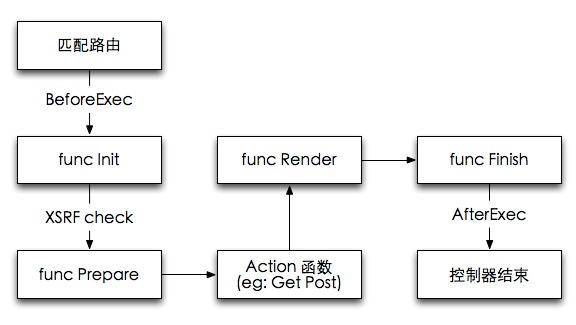
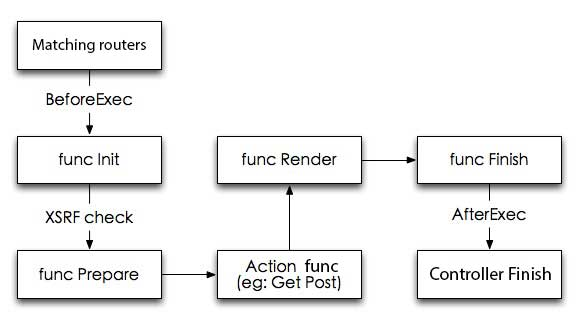
translated imgs.

diff --git a/en/1/why_beego.html b/en/1/why_beego.html
@@ -2,7 +2,7 @@
 <!DOCTYPE html>
 <html>
   <head>
-    <title>The Zen of Beego</title>
+    <title>Beego Framework Tutorials - 1 - Introduction to Beego</title>
     <meta charset='utf-8'>
     <script src='static/slides.js'></script>
   </head>
@@ -12,15 +12,15 @@
     <section class='slides layout-widescreen'>
       
       <article>
-        <h1>The Zen of Beego</h1>
-        <h3>A Go framework for developing HTTP application rapidly</h3>
-        <h3>10 May 2014</h3>
+        <h1>Beego Framework Tutorials - 1 - Introduction to Beego</h1>
+        <h3>A Go HTTP framework for developing HTTP application rapidly</h3>
+        
         
           <div class="presenter">
             
   
   <p>
-    Lei Cao
+    By Lei Cao
   </p>
   
 
@@ -36,27 +36,24 @@
         
   <ul>
   
-    <li>Why do we design <b>beego</b>?</li>
+    <li>Why do we create <b>beego</b>?</li>
   
-    <li>What can <b>beego</b> do?</li>
+    <li>What can we do with <b>beego</b>?</li>
   
-    <li>Where will <b>beego</b> go?</li>
+    <li>Where will <b>beego</b> lead to in the future?</li>
   
     <li>How to install and config <b>beego</b>?</li>
   
-    <li>When should I start learning <b>beego</b>? Now!</li>
+    <li>When can I get started with <b>beego</b>?</li>
   
   </ul>
 
-      
-      </article>
+  <ul>
   
+    <li>Why do we create beego?</li>
   
-  
-      <article>
-      
-        <h3>Why do we design beego?</h3>
-        
+  </ul>
+
   
   <p>
     1. Astaxie want to create a framework while he was writing his book.
@@ -69,15 +66,12 @@
   </p>
   
 
-      
-      </article>
+  <ul>
   
+    <li>What can we do with beego?</li>
   
-  
-      <article>
-      
-        <h3>What can beego do?</h3>
-        
+  </ul>
+
   
   <p>
     <b>beego</b> is a http application framework
@@ -109,27 +103,28 @@
   
     <li>High performance. The fastest Go framework out there now.</li>
   
-    <li>Rapid development, lots of components, highly decoupled</li>
+  </ul>
+<p class="link"><a href="http://www.techempower.com/benchmarks/#section=data-r9&amp;hw=i7&amp;test=json" target="_blank">Web Framework Benchmarks</a></p>
+  <ul>
   
-    <li>Tons of products. 360，weico，jd，opera ...</li>
+    <li>High-productivity, many components, highly decoupled</li>
+  
+    <li>Tons of live products. 360，weico，jd，opera ...</li>
   
     <li>RESTful model with customizable actions</li>
   
-    <li>high stability, frequent update, continuous maintainace</li>
+    <li>Stable; active update; continuous maintainace</li>
   
-    <li>Good documents, online FAQ</li>
+    <li>Pretty good documents</li>
   
   </ul>
 
-      
-      </article>
+  <ul>
   
+    <li>Where will beego evolve in the future?</li>
   
-  
-      <article>
-      
-        <h3>Where will beego go?</h3>
-        
+  </ul>
+
   <ul>
   
     <li>Highly modular. Improving existent modules and developing more new modules</li>
@@ -142,15 +137,12 @@
   
   </ul>
 
-      
-      </article>
+  <ul>
   
+    <li>How to install and config beego?</li>
   
-  
-      <article>
-      
-        <h3>How to install and config beego?</h3>
-        
+  </ul>
+
   
   <p>
     <b>beego</b> is the framework, <b>bee</b> is the developing tool.
@@ -169,7 +161,7 @@ go get github.com/beego/bee</pre></div>
   
       <article>
       
-        <h3>Frequently happened problems:</h3>
+        <h3>Frequently happened issues:</h3>
         
   <ul>
   
@@ -177,7 +169,13 @@ go get github.com/beego/bee</pre></div>
   
     <li>Setting up <b>bee</b> tool</li>
   
-    <li><b>git</b> is not installed</li>
+  </ul>
+<p class="link"><a href="http://beego.me/docs/install/bee.md" target="_blank">bee tool document</a></p>
+  <ul>
+  
+    <li>Testing if installed sucessfully</li>
+  
+    <li>Type <code>bee</code> in command line</li>
   
   </ul>
 
@@ -188,26 +186,10 @@ go get github.com/beego/bee</pre></div>
   
       <article>
       
-        <h3>Testing if installed sucessfully</h3>
-        
-  
-  <p>
-    Type <code>bee</code> in command line
-  </p>
-  
-
-      
-      </article>
-  
-  
-  
-      <article>
-      
-        <h3>When should I start learning beego? Now!</h3>
+        <h3>When can I get started with beego? The answer is now!</h3>
         
   
   <div class="code"><pre>bee new beegoProject
-
 
 bee run watchall</pre></div>
   
@@ -245,6 +227,15 @@ bee run watchall</pre></div>
       </article>
   
   
+  
+      <article>
+      
+        <h3>Links</h3>
+        <p class="link"><a href="https://github.com/beego/tutorial" target="_blank">Beego Framework Toturials</a></p>
+      
+      </article>
+  
+  
 
       <article>
         <h3>Thank you</h1>
@@ -253,7 +244,7 @@ bee run watchall</pre></div>
             
   
   <p>
-    Lei Cao
+    By Lei Cao
   </p>
   
 <p class="link"><a href="http://github.com/lei-cao" target="_blank">http://github.com/lei-cao</a></p>

diff --git a/en/1/static/styles.css b/en/1/static/styles.css
@@ -337,7 +337,7 @@ code {
 }
 
 article > .image {
-  	text-align: center;
+    text-align: center;
     margin-top: 40px;
 }
 
@@ -418,13 +418,13 @@ div.output .buttons {
 
 /* Presenter details */
 .presenter {
-	margin-top: 20px;
+  margin-top: 20px;
 }
 .presenter p,
 .presenter .link {
-	margin: 0;
-	font-size: 28px;
-	line-height: 1.2em;
+  margin: 0;
+  font-size: 28px;
+  line-height: 1.2em;
 }
 
 /* Output resize details */

diff --git a/README.md b/README.md
@@ -1,52 +1,52 @@
 Getting Started With Beego
 ========
 
+[中文版](./README_zh.md)
+
 Beego has pretty good documents already. Now we want to create more resources for Beego.
 Video tutorials is a very good way for new beginners so we decided to make a series of video tutorials after releasing Beego 1.2.
 We will teach you Beego's every components, the code logic and how to use Beego's modules. We will also demonstrate how to develope API service and web application.
 
-[Lesson 1: The Zen of Beego](./en/1/why_beego.slide)
+[Beego Framework Tutorials - 1 - Introduction to Beego](http://go-talks.appspot.com/github.com/beego/tutorial/en/1/why_beego.slide)
 
-Lesson 2: Routing
+Beego Framework Tutorials - 2 - Routing
 
-Lesson 3: Accessing Parameters
+Beego Framework Tutorials - 3 - Accessing Parameters
 
-Lesson 4: Controllers
+Beego Framework Tutorials - 4 - Controllers
 
-Lesson 5: ORM
+Beego Framework Tutorials - 5 - ORM
  
-Lesson 6: Advanced ORM
+Beego Framework Tutorials - 6 - Advanced ORM
 
-Lesson 7: Beego with mgo and redis
+Beego Framework Tutorials - 7 - Beego with mgo and redis
 
-Lesson 8: Templates
+Beego Framework Tutorials - 8 - Templates
 
-Lesson 9: Filters
+Beego Framework Tutorials - 9 - Filters
 
-Lesson 10: Logging
+Beego Framework Tutorials - 10 - Logging
 
-Lesson 11: Error Handling
+Beego Framework Tutorials - 12 - Admin System
 
-Lesson 12: Admin System
+Beego Framework Tutorials - 13 - Session
 
-Lesson 13: Session
+Beego Framework Tutorials - 14 - Cache
 
-Lesson 14: Cache
+Beego Framework Tutorials - 15 - Logs
 
-Lesson 15: Logs
+Beego Framework Tutorials - 16 - Httplib
 
-Lesson 16: Httplib
+Beego Framework Tutorials - 17 - Context
 
-Lesson 17: Context
+Beego Framework Tutorials - 18 - Toolbox
 
-Lesson 18: Toolbox
+Beego Framework Tutorials - 19 - Config
 
-Lesson 19: Config
+Beego Framework Tutorials - 20 - Forms
 
-Lesson 20: Forms
+Beego Framework Tutorials - 21 - I18n
 
-Lesson 21: I18n
+Beego Framework Tutorials - 22 - Demo: API Service
 
-Lesson 22: Demo: API Service
-
-Lesson 23: Demo: Web Application
+Beego Framework Tutorials - 23 - Demo: Web Application
